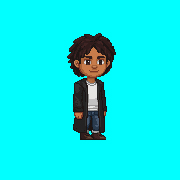
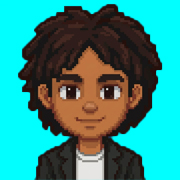
feat: Add smooth sweep animation for theme toggle

diff --git a/script.js b/script.js
@@ -8,15 +8,52 @@ document.addEventListener("DOMContentLoaded", () => {
     }
 
     if (themeToggleBtn) {
-        themeToggleBtn.addEventListener('click', () => {
-            let theme = document.documentElement.getAttribute('data-theme');
-            if (theme === 'light') {
-                document.documentElement.removeAttribute('data-theme');
-                localStorage.setItem('theme', 'dark');
-            } else {
-                document.documentElement.setAttribute('data-theme', 'light');
-                localStorage.setItem('theme', 'light');
+        themeToggleBtn.addEventListener('click', (e) => {
+            const toggleTheme = () => {
+                let theme = document.documentElement.getAttribute('data-theme');
+                if (theme === 'light') {
+                    document.documentElement.removeAttribute('data-theme');
+                    localStorage.setItem('theme', 'dark');
+                } else {
+                    document.documentElement.setAttribute('data-theme', 'light');
+                    localStorage.setItem('theme', 'light');
+                }
+            };
+
+            // Setup smooth sweep animation using View Transitions API
+            if (!document.startViewTransition) {
+                toggleTheme();
+                return;
             }
+
+            const x = e.clientX;
+            const y = e.clientY;
+            
+            // Calculate max radius needed to cover the entire screen from the click point
+            const endRadius = Math.hypot(
+                Math.max(x, window.innerWidth - x),
+                Math.max(y, window.innerHeight - y)
+            );
+
+            const transition = document.startViewTransition(toggleTheme);
+
+            transition.ready.then(() => {
+                const clipPath = [
+                    `circle(0px at ${x}px ${y}px)`,
+                    `circle(${endRadius}px at ${x}px ${y}px)`
+                ];
+
+                document.documentElement.animate(
+                    {
+                        clipPath: clipPath
+                    },
+                    {
+                        duration: 600, // Make it a smoother, slightly longer duration
+                        easing: 'cubic-bezier(0.25, 1, 0.5, 1)', // Smooth deceleration
+                        pseudoElement: '::view-transition-new(root)'
+                    }
+                );
+            });
         });
     }
 

diff --git a/style.css b/style.css
@@ -570,3 +570,10 @@ footer {
     opacity: 1;
     transform: translateY(0);
 }
+
+/* View Transition API overrides for smooth sweep animation */
+::view-transition-old(root),
+::view-transition-new(root) {
+    animation: none;
+    mix-blend-mode: normal;
+}

diff --git a/index.html b/index.html
@@ -293,7 +293,7 @@
 
     <footer>
         <div class="container">
-            <p>&copy; 2025 Chirag Venkatesh. All rights reserved.</p>
+            <p>&copy; 2026 Chirag Venkatesh. All rights reserved.</p>
         </div>
     </footer>
 
